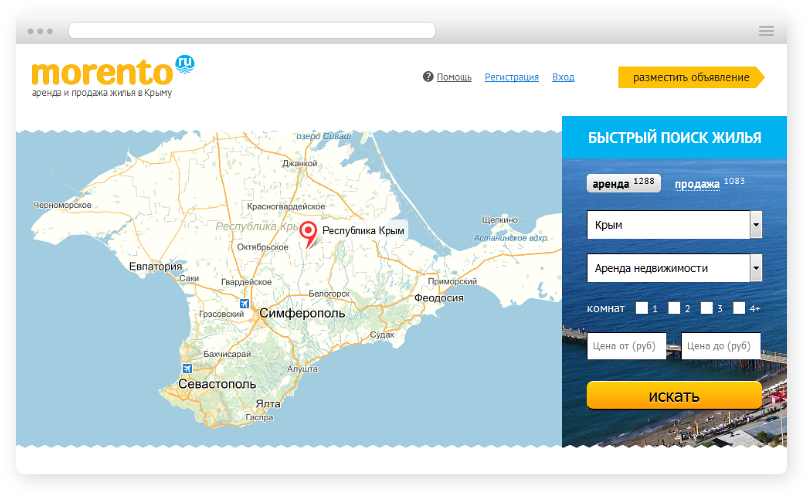
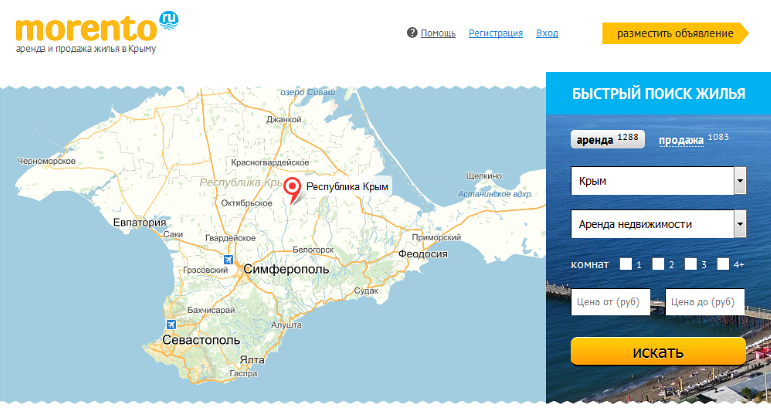
pages two

diff --git a/css/styles.css b/css/styles.css
@@ -22,6 +22,7 @@ body {
 .wrapper {
   width: 1000px;
   margin: 0 auto;
+  position: relative;
 }
 .wrapper-mini {
   width: 980px;
@@ -1074,6 +1075,109 @@ table td:last-child {
 }
 .pad-bottom {
   padding-bottom: 200px;
+}
+.page-pad {
+  padding: 80px 0;
+}
+.animate-b {
+  position: relative;
+}
+.wow {
+  position: absolute;
+}
+.mor-img-2 {
+  top: 314px;
+  left: 61px;
+}
+.mor-img-3 {
+  top: 247px;
+  left: 60%;
+}
+.mor-img-4 {
+  top: 60px;
+  right: 58px;
+}
+.mor-img-5 {
+  top: 144px;
+  left: 48px;
+}
+.height-anim {
+  height: 580px;
+}
+.parallax-one {
+  overflow: hidden;
+  padding: 68px 0;
+}
+.img-1 {
+  background: url(../images/parallax-img-1.jpg) fixed center center no-repeat;
+  -webkit-background-size: cover;
+  background-size: cover;
+}
+.content-color {
+  color: #fff;
+}
+.content-color .h1 {
+  color: #fff;
+}
+.mor-img-8 {
+  top: 44%;
+  right: 1%;
+}
+.mar-img-7 {
+  margin: 43px 0 0 65px;
+}
+.tac {
+  text-align: center;
+}
+.tal {
+  text-align: left;
+}
+.text-castum {
+  text-align: left;
+  color: #8b8b8b;
+  line-height: 21px;
+}
+.poz-text-1 {
+  position: absolute;
+  top: 126px;
+  right: 76px;
+}
+.poz-text-2 {
+  position: absolute;
+  top: 100px;
+  left: 90px;
+}
+.poz-text-3 {
+  position: absolute;
+  top: 76px;
+  left: 40px;
+}
+.poz-text-4 {
+  position: absolute;
+  top: 66px;
+  left: 112px;
+  color: #fff;
+}
+.mor-img-1 {
+  margin: 68px 0 0;
+}
+.img-10 {
+  top: 37%;
+  right: 5%;
+  z-index: 2;
+}
+.img-11 {
+  top: 67%;
+  right: 5%;
+}
+.img-12 {
+  position: absolute;
+  top: -102px;
+  left: 0;
+}
+.bg-color {
+  background: #dedede url("../images/morento-img-12.png") 60% 0 no-repeat;
+  padding: 53px 0 97px;
 }
 footer:before {
   content: '';

diff --git a/css/styles.less b/css/styles.less
@@ -56,6 +56,7 @@ body {
 .wrapper {
   width: 1000px;
   margin: 0 auto;
+  position: relative;
 }
 .wrapper-mini{
   width: 980px;
@@ -1283,6 +1284,96 @@ table{
   padding-bottom: 200px;
 }
 
+.page-pad{
+  padding:80px 0;
+}
+.animate-b{
+  position: relative;
+}
+.wow{
+  position: absolute;
+}
+
+.mor-img-2{
+  top: 314px;
+  left: 61px;
+}
+.mor-img-3{
+  top: 247px;
+  left: 60%;
+}
+.mor-img-4{
+  top: 60px;
+  right: 58px;
+}
+
+.mor-img-5{
+  top: 144px;
+  left: 48px;
+}
+.height-anim{
+  height:580px;
+}
+
+
+.parallax-one{
+  overflow: hidden;
+  padding: 68px 0;
+}
+.img-1{
+  background: url(../images/parallax-img-1.jpg) fixed center center no-repeat;
+  -webkit-background-size: cover;
+  background-size: cover;
+}
+.content-color{
+  color: #fff;
+  .h1{
+    color: #fff;
+  }
+}
+.mor-img-8{
+  top: 44%;
+  right: 1%;
+}
+.mar-img-7{
+  margin: 43px 0 0 65px;
+}
+.tac{
+  text-align: center;
+}
+.tal{
+  text-align: left;
+}
+.text-castum{
+  text-align: left;
+  color: #8b8b8b;
+  line-height: 21px;
+}
+.poz-text-1{
+  position: absolute;
+  top: 126px;
+  right: 76px;
+}
+.poz-text-2{
+  position: absolute;
+  top: 100px;
+  left: 90px;
+}
+.poz-text-3{
+  position: absolute;
+  top: 76px;
+  left: 40px;
+}
+.poz-text-4{
+  position: absolute;
+  top: 66px;
+  left: 112px;
+  color: #fff;
+}
+
+.mor-img-1{
+  margin: 68px 0 0;
+}
 
 
 
@@ -1297,11 +1388,25 @@ table{
 
 
 
+.img-10{
+  top: 37%;
+  right: 5%;
+  z-index: 2;
+}
 
-
-
-
-
+.img-11{
+  top: 67%;
+  right: 5%;
+}
+.img-12{
+  position: absolute;
+  top: -102px;
+  left:0;
+}
+.bg-color{
+  background: #dedede url("../images/morento-img-12.png")  60% 0 no-repeat;
+  padding: 53px 0 97px;
+}
 
 
 //      \CONTENT\
